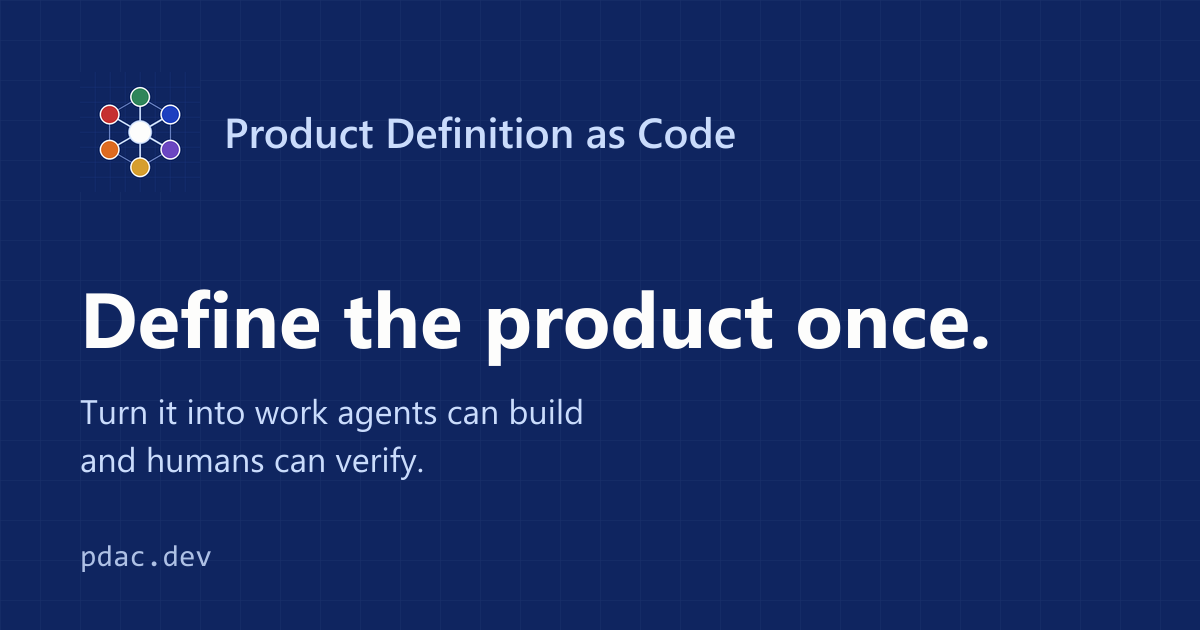
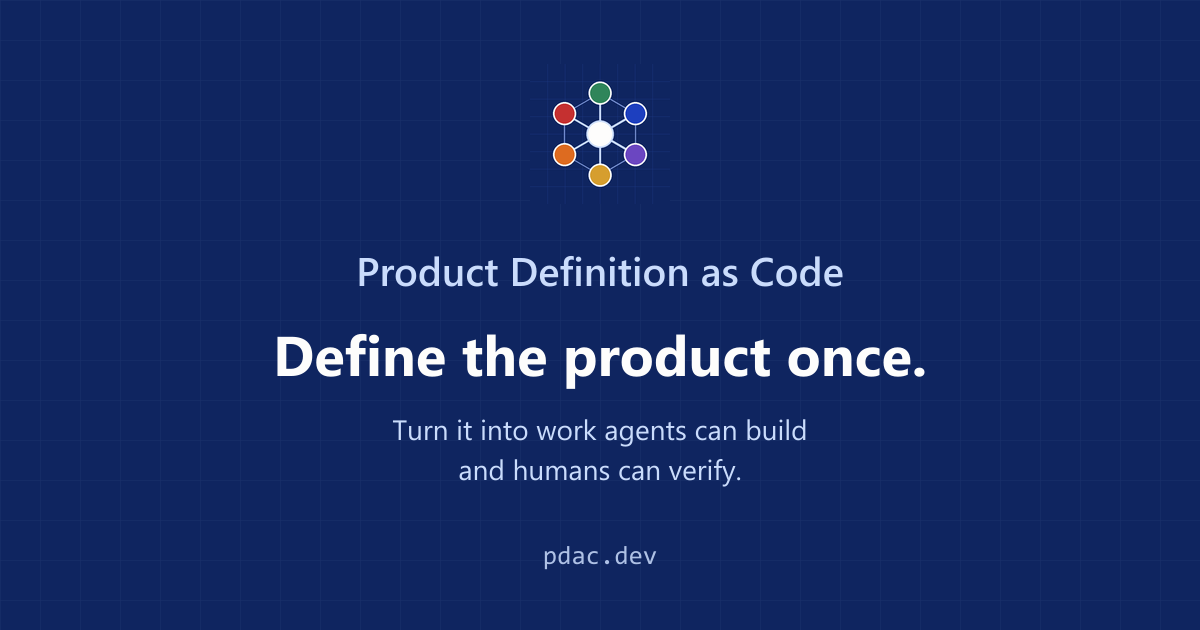
docs: tighten the share previews (#47)
* docs: centre the share card, keep preview descriptions under 160 characters

* docs: give short page titles their full name

diff --git a/src/content/docs/adoption.md b/src/content/docs/adoption.md
@@ -1,5 +1,5 @@
 ---
-title: Adopt PDaC
+title: Adopt Product Definition as Code
 description: PDaC is a method you can fit to the way you already work. Start with one product decision, then add checks only when you need them.
 ---
 

diff --git a/src/content/docs/articles/index.md b/src/content/docs/articles/index.md
@@ -1,5 +1,5 @@
 ---
-title: Articles
+title: Articles on Product Definition as Code
 description: Direct explanations of product intent, Product Definition as Code and the tools that make references checkable.
 ---
 

diff --git a/src/content/docs/known-limits.md b/src/content/docs/known-limits.md
@@ -1,5 +1,5 @@
 ---
-title: Known limits
+title: The known limits of Product Definition as Code
 description: What Product Definition as Code cannot claim yet, named before anyone has to discover it.
 ---
 
